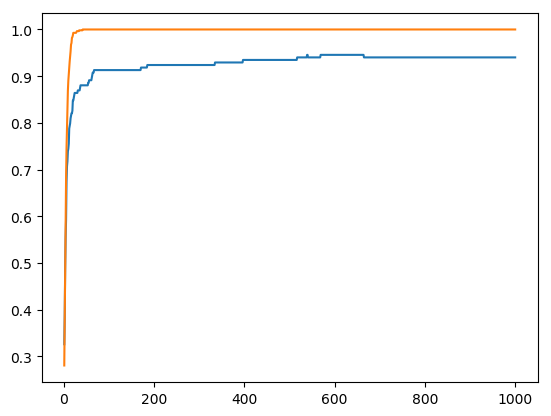
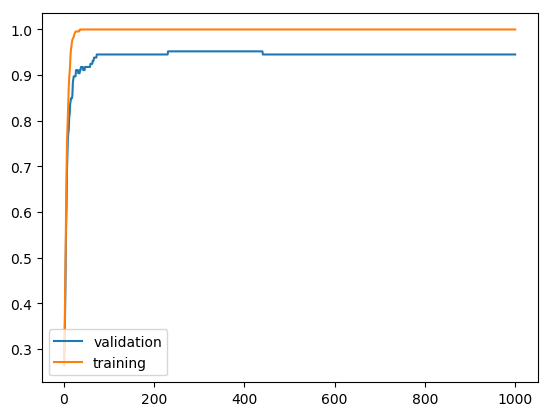
stuff

diff --git a/p2/deepfaces.py b/p2/deepfaces.py
@@ -68,15 +68,17 @@ def part10():
     dtype_float = torch.FloatTensor
     dtype_long = torch.LongTensor
 
-    train_set, test_set, _ = getSets(act, (60, 20, 0), 'objects/AlexNet')
+    train_set, valid_set, test_set = getSets(act, (60, 20, 20), 'objects/AlexNet')
     train_x = genX(train_set, dim_x, 'objects/AlexNet')
     train_y = genY(train_set, dim_out)
+    valid_x = genX(valid_set, dim_x, 'objects/AlexNet')
+    valid_y = genY(valid_set, dim_out)
     test_x  = genX(test_set,  dim_x, 'objects/AlexNet')
     test_y  = genY(test_set,  dim_out)
     
     batches = list()
-    acc_test, acc_train = list(), list()
-    loss_test, loss_train = list(), list()
+    acc_valid, acc_train, acc_test = list(), list(), list()
+    loss_valid, loss_train, loss_test = list(), list(), list()
 
     train_idx = np.random.permutation(range(train_x.shape[0]))
     x = torch.from_numpy(train_x[train_idx])
@@ -99,6 +101,8 @@ def part10():
     target_test  = Variable(torch.from_numpy(np.argmax(test_y, 1)),  requires_grad=False).type(dtype_long)
     data_train   = Variable(torch.from_numpy(train_x),               requires_grad=False).type(dtype_float)
     target_train = Variable(torch.from_numpy(np.argmax(train_y, 1)), requires_grad=False).type(dtype_long)
+    data_valid    = Variable(torch.from_numpy(valid_x),                requires_grad=False).type(dtype_float)
+    target_valid  = Variable(torch.from_numpy(np.argmax(valid_y, 1)),  requires_grad=False).type(dtype_long)
 
     t = np.arange(1, 1001)
     for epoch in t:
@@ -109,22 +113,27 @@ def part10():
             loss.backward()  
             optimizer.step()
             
-        pred = model.forward(data_test)
-        loss = loss_fn(pred, target_test)
-        acc_test.append(np.mean(np.argmax(pred.data.numpy(), 1) == np.argmax(test_y, 1)))
-        loss_test.append(loss.data.numpy())
+        pred = model(data_valid)
+        loss = loss_fn(pred, target_valid)
+        acc_valid.append(np.mean(np.argmax(pred.data.numpy(), 1) == np.argmax(valid_y, 1)))
+        loss_valid.append(loss.data.numpy())
         
-        pred = model.forward(data_train)
+        pred = model(data_train)
         loss = loss_fn(pred, target_train)
         acc_train.append(np.mean(np.argmax(pred.data.numpy(), 1) == np.argmax(train_y, 1)))
         loss_train.append(loss.data.numpy())
+        
+        pred = model(data_test)
+        loss = loss_fn(pred, target_test)
+        acc_test.append(np.mean(np.argmax(pred.data.numpy(), 1) == np.argmax(test_y, 1)))
+        loss_test.append(loss.data.numpy())
         
         if epoch % 100 == 0:
             print('Epoch {} - completed'.format(epoch))
 
     print('Max accuracy:', max(acc_test))
-    linegraphVec(acc_test, acc_train, t, 'pt10_learning_curve_accuracy')
-    linegraphVec(loss_test, loss_train, t, 'pt10_learning_curve_loss')
+    linegraphVec(acc_valid, acc_train, t, 'pt10_learning_curve_accuracy')
+    linegraphVec(loss_valid, loss_train, t, 'pt10_learning_curve_loss')
     return
 
 #_______________________________ MAIN _______________________________#

diff --git a/p2/digits.py b/p2/digits.py
@@ -50,30 +50,37 @@ def part4():
         b = np.zeros((NUM_LABEL, 1))
 
         W, b = gradDescent(X, Y, W, b, out=False)
+        P = classify(X, Y, W, b)
+        res_train = accuracy(P, Y)
 
         X = genX(M, TEST, 100)
         Y = genY(M, TEST, 100)
         P = classify(X, Y, W, b)
-        res = accuracy(P, Y)
+        res_test = accuracy(P, Y)
 
-        print('({}, {}) - point generated'.format(n, res))
-        return res
+        print('({}, {}) - point generated'.format(n, res_test))
+        return res_test, res_train
     
-    X = genX(M, TRAIN, 500)
-    Y = genY(M, TRAIN, 500)
-    W = np.zeros((NUM_LABEL, NUM_FEAT))
-    b = np.zeros((NUM_LABEL, 1))
+    #X = genX(M, TRAIN, 500)
+    #Y = genY(M, TRAIN, 500)
+    #W = np.zeros((NUM_LABEL, NUM_FEAT))
+    #b = np.zeros((NUM_LABEL, 1))
 
-    W, b = gradDescent(X, Y, W, b)
+    #W, b = gradDescent(X, Y, W, b)
     #W, b = loadObj('weights'), loadObj('bias')
-    saveObj(W, 'weights')
-    saveObj(b, 'bias')
+    #saveObj(W, 'weights')
+    #saveObj(b, 'bias')
 
-    for i in range(len(W)):
-        heatmap(W[i], (28,28), 'pt4_weight_' + str(i))
+    #for i in range(len(W)):
+    #    heatmap(W[i], (28,28), 'pt4_weight_' + str(i))
 
-    x = np.arange(0, 130, 10)
-    linegraphFunc(f, x, 'pt4_learning_curve_accuracy')
+    y1, y2 = list(), list()
+    x = np.arange(0, 210, 10)
+    for n in x:
+        res = f(n)
+        y1.append(res[0])
+        y2.append(res[1])
+    linegraphVec(y1, y2, x, 'pt4_learning_curve_accuracy')
     return
 
 #______________________________ PART 5 ______________________________#
@@ -86,17 +93,24 @@ def part5():
         b = np.zeros((NUM_LABEL, 1))
 
         W, b = gradDescent(X, Y, W, b, momentum=True, out=False)
+        P = classify(X, Y, W, b)
+        res_train = accuracy(P, Y)
 
         X = genX(M, TEST, 100)
         Y = genY(M, TEST, 100)
         P = classify(X, Y, W, b)
-        res = accuracy(P, Y)
+        res_test = accuracy(P, Y)
 
-        print('({}, {}) - point generated'.format(n, res))
-        return res
+        print('({}, {}) - point generated'.format(n, res_test))
+        return res_test, res_train
 
-    x = np.arange(0, 130, 10)
-    linegraphFunc(f, x, 'pt5_learning_curve')
+    y1, y2 = list(), list()
+    x = np.arange(0, 210, 10)
+    for n in x:
+        res = f(n)
+        y1.append(res[0])
+        y2.append(res[1])
+    linegraphVec(y1, y2, x, 'pt5_learning_curve_accuracy')
     return
 
 #______________________________ PART 6 ______________________________#
@@ -154,9 +168,9 @@ if __name__ == '__main__':
     start = time.time()
 
     #part3()
-    #part4()
-    #part5()
-    part6()
+    part4()
+    part5()
+    #part6()
     #part6e()
 
     end = time.time()

diff --git a/p2/faces.py b/p2/faces.py
@@ -109,7 +109,6 @@ def part9():
     activation = np.argmax(out, 1).tolist()
     print('Steven Carell: {}'.format(max(set(activation), key=activation.count)))
 
-   
     return
 
 #_______________________________ MAIN _______________________________#
